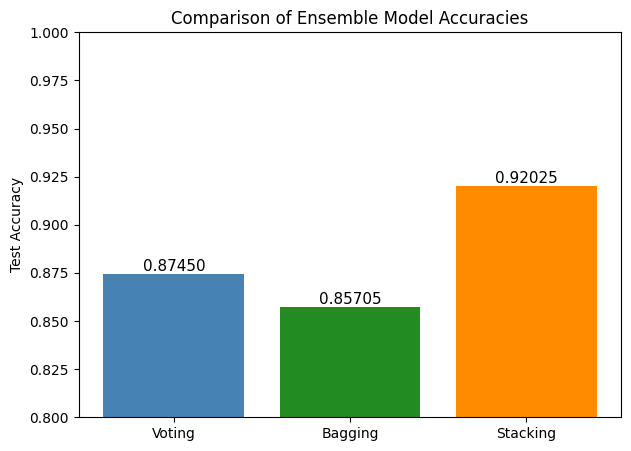
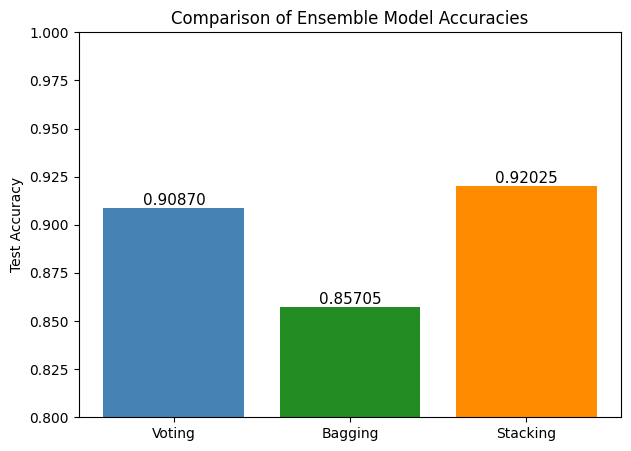
Report - final version

Changed region(s): [[0.1506, 0.4035, 0.3914, 0.6208]]

diff --git a/ML_final_report.tex b/ML_final_report.tex
@@ -98,16 +98,16 @@ On top of these base learners, several ensemble strategies are implemented. A ba
 
 Evaluation on the held--out test set shows that all models perform competitively, with the stacking ensemble clearly outperforming the others in terms of accuracy. The tuned logistic regression model achieves an accuracy of approximately \(0.86\), precision \(0.87\), recall \(0.89\) and F1--score \(0.88\), indicating a well balanced trade--off between sensitivity and specificity. The linear regression baseline reaches very similar values, confirming that a simple linear decision boundary already captures a large fraction of the signal in the data.
 
-Among the ensemble methods, the soft--voting classifier improves over the single logistic model and yields an accuracy of \(0.892\), precision \(0.935\), recall \(0.879\) and F1--score \(0.906\). The confusion matrix
+Among the ensemble methods, the soft--voting classifier improves over the single logistic model and yields an accuracy of \(0.909\), precision \(0.972\), recall \(0.872\) and F1--score \(0.919\). The confusion matrix
 
 \[
 \begin{bmatrix}
-7352 & 725 \\
-1440 & 10483
+7779 & 298 \\
+1528 & 10395
 \end{bmatrix}
 \]
 
-shows that most diabetic and non--diabetic individuals are correctly classified, with relatively few false positives and false negatives. Hard voting and bagging ensembles obtain accuracies of \(0.8745\) and \(0.8571\) respectively, while the stacking ensemble reaches the highest test accuracy of \(0.9203\), as summarized in Table~\ref{tab:results} and illustrated in Figure~\ref{fig:ensemble}.
+shows that most diabetic and non--diabetic individuals are correctly classified, with relatively few false positives and false negatives. Hard voting and bagging ensembles obtain accuracies of \(0.892\) and \(0.857\) respectively, while the stacking ensemble reaches the highest test accuracy of \(0.920\), as summarized in Table~\ref{tab:results} and illustrated in Figure~\ref{fig:ensemble}.
 
 \begin{table}[h!]
     \centering
@@ -120,10 +120,10 @@ shows that most diabetic and non--diabetic individuals are correctly classified,
         \midrule
         Linear Regression (threshold 0.5) & $0.86$ \\
         Logistic Regression (tuned)       & $0.86$ \\
-        Soft Voting Ensemble              & $0.8918$ \\
-        Hard Voting Ensemble              & $0.8745$ \\
-        Bagging Ensemble                  & $0.8571$ \\
-        Stacking Ensemble                 & $0.9203$ \\
+        Soft Voting Ensemble              & $0.909$ \\
+        Hard Voting Ensemble              & $0.892$ \\
+        Bagging Ensemble                  & $0.857$ \\
+        Stacking Ensemble                 & $0.920$ \\
         \bottomrule
     \end{tabular}
     
@@ -141,7 +141,7 @@ From a screening perspective, the precision--recall trade--off is central. The l
 
 \section{7. Conclusion}
 
-This project implemented a complete supervised learning pipeline to predict diagnosed diabetes from a rich set of demographic, lifestyle and clinical indicators. After careful preprocessing with one--hot encoding and stratified train--test splitting, several models were trained and compared, including linear regression, logistic regression, decision trees, SVC and multiple ensemble methods. The tuned logistic and linear models achieved balanced performance with accuracy around $0.86$, precision $0.87$ and recall $0.89$, showing that even relatively simple linear decision boundaries can capture much of the signal present in the data. Ensemble approaches further improved predictive accuracy: the soft--voting classifier reached an accuracy of $0.892$ with F1--score $0.906$, while the stacking ensemble achieved the best overall accuracy of approximately $0.92$.
+This project implemented a complete supervised learning pipeline to predict diagnosed diabetes from a rich set of demographic, lifestyle and clinical indicators. After careful preprocessing with one--hot encoding and stratified train--test splitting, several models were trained and compared, including linear regression, logistic regression, decision trees, SVC and multiple ensemble methods. The tuned logistic and linear models achieved balanced performance with accuracy around $0.86$, precision $0.87$ and recall $0.89$, showing that even relatively simple linear decision boundaries can capture much of the signal present in the data. Ensemble approaches further improved predictive accuracy: the soft--voting classifier reached an accuracy of $0.909$ with F1--score $0.906$, while the stacking ensemble achieved the best overall accuracy of approximately $0.92$.
 
 From a business and clinical perspective, these results indicate that routinely collected health indicators can be leveraged to support early diabetes screening and risk stratification. The confusion matrices highlight that both the logistic and ensemble models maintain low rates of false negatives, which is essential when the cost of missing a diabetic patient is high, while also keeping false positives at a manageable level. Nevertheless, the study has several limitations: the use of a single synthetic dataset, the absence of external validation, and the lack of explicit cost--sensitive optimisation all constrain the immediate deployability of the models. Future work should therefore focus on validating the pipeline on real--world cohorts, exploring class--weighted or cost--aware training objectives, applying dimensionality reduction and feature selection, and involving domain experts to ensure that the final models align with clinical priorities and ethical considerations.
 
